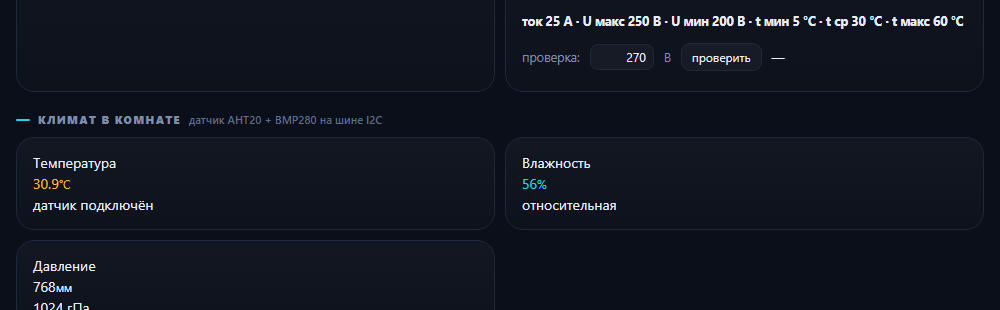
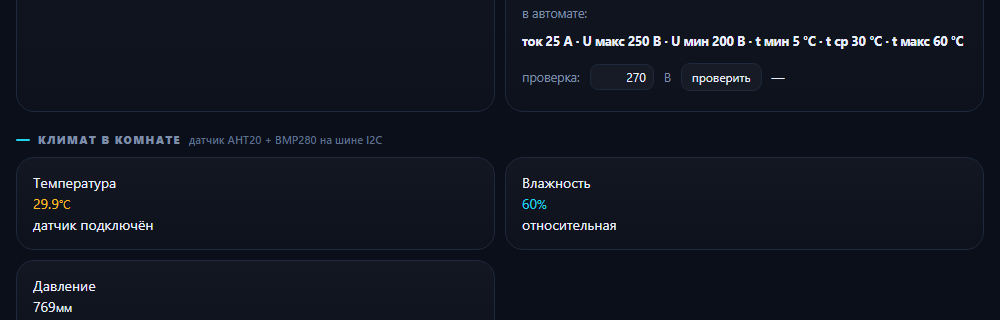
ревью 09.11: BMP280 dig_T2/T3 int16, /i2c probe восстанавливает шину, климат без OOB, refreshWindow для климата, BLOCKS без перекрытий, climate.csv без дублей, /files и /full с climate.csv, eage в /data; приложение: климат в карточке температуры

diff --git a/CHANGELOG.md b/CHANGELOG.md
@@ -24,7 +24,13 @@
   У климата своё окно «КЛИМАТ»: воздух, влажность, давление, мин/макс за сутки и
   график по часам со стрелками ‹ › (за прошлые дни читается `/climate.csv`).
   Экран «ТЕМП РЕЛЕ» снова показывает только реле, без климата.
-  В приложении Windows добавлены кнопка «Звуки» в шапке и строка климата. Порядок SDA/SCL определяется автоматически.
+  В приложении Windows добавлены кнопка «Звуки» в шапке и строка климата.
+- **Исправления по ревью 09.11**: знак коэффициентов BMP280 (`dig_T2/T3` → int16),
+  `/i2c?probe` больше не оставляет шину в нерабочем состоянии, климат-экран без
+  чтения за границей массива (`hourAverage` ждёт 288 отсчётов), `refreshWindow`
+  не стирает график климата, карточки на главном без перекрытий (116/176/246),
+  `climate.csv` без дублей и с проверкой давления, `/files` и `/full` отдают
+  `climate.csv` и `rangecache.bin`, в `/data` добавлен `eage` (свежесть датчика). Порядок SDA/SCL определяется автоматически.
   Модель: **AHT20 + BMP280 I2C**, [ссылка](https://ozon.ru/t/5DJ5Xzl).
 - **Динамик**: мини-громкоговоритель **35 × 25 × 6.3 мм, 8 Ом, 2 Вт**
   (`YDSB-3525-8R2W-2P1.25`), разъём 2 pin 1.25 мм в штатное гнездо **P4 (Speaker)**,

diff --git a/README.md b/README.md
@@ -131,7 +131,10 @@
 с температурой реле и средней за сутки.
 В `/data` появляются `eok`, `et`, `eh`, `ep`; на экране платы — строка «ВОЗДУХ / ВЛАЖН / ДАВЛ»
 на экране «ТЕМП РЕЛЕ»; на веб-странице — карточка «Климат в комнате».
-Раз в час значения пишутся в `/climate.csv` (`дата,время,t,h,p`).
+Раз в час значения пишутся в `/climate.csv` (`дата,время,t,h,p`) — без дублей за
+один час, мусорное давление отбрасывается. Файл отдаётся через `/full?file=climate.csv`
+и виден в `/files` (там же `/rangecache.bin`). В `/data` поля `eok`, `et`, `eh`, `ep`
+и `eage` — сколько секунд назад читали датчик; `eok=0`, если данных нет дольше 5 минут.
 
 ![Климат в комнате на веб-странице](docs/screenshots/web/15-climate.png)
 
